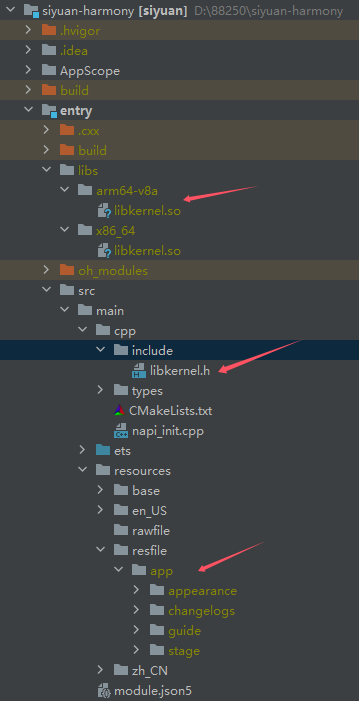
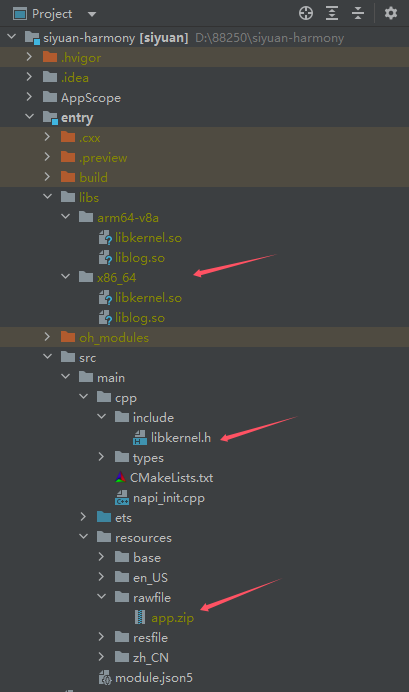
:tada: Init commit

diff --git a/README.md b/README.md
@@ -8,12 +8,14 @@
 ## Construction guide
 
 1. Refer to [SiYuan Development Guide](https://github.com/siyuan-note/siyuan/blob/master/.github/CONTRIBUTING.md) to compile the kernel
-2. Copy the resource files to entry/src/main/resources/resfile/app/
-    * appearance
-    * guide
-    * stage
-    * changelogs
+2. Copy the resource files and package it in entry/src/main/resources/rawfile/app.zip
+   * appearance
+   * guide
+   * stage
+   * changelogs
 
 Directory structure reference:
 
 ![project-tree](project-tree.png)
+
+![app.zip](app-zip.png)

diff --git a/README_zh_CN.md b/README_zh_CN.md
@@ -8,7 +8,7 @@
 ## 搭建步骤
 
 1. 参考[思源笔记开发指南](https://github.com/siyuan-note/siyuan/blob/master/.github/CONTRIBUTING_zh_CN.md)编译内核
-2. 拷贝资源文件并复制到 entry/src/main/resources/resfile/app/
+2. 拷贝资源文件并打包 entry/src/main/resources/rawfile/app.zip
    * appearance
    * guide
    * stage
@@ -17,3 +17,5 @@
 目录结构参考：
 
 ![project-tree](project-tree.png)
+
+![app.zip](app-zip.png)
